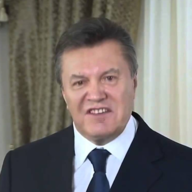
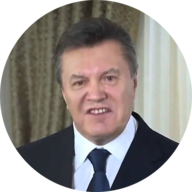
added thief-face.png with border radius 100%

diff --git a/index.html b/index.html
@@ -27,7 +27,7 @@
     <meta property="og:title" content="Остановитесь.рф">
     <meta property="og:type" content="website">
     <meta property="og:url" content="http://остановитесь.рф/">
-    <meta property="og:image" content="http://остановитесь.рф/thief-face.jpeg">
+    <meta property="og:image" content="http://остановитесь.рф/thief-face.png">
 
     <link rel="stylesheet" href="/app.css">
 </head>

diff --git a/app.js b/app.js
@@ -1,7 +1,7 @@
 new Vue({
     el: '#app',
     data: {
-        thiefFaceImg: '/thief-face.jpeg',
+        thiefFaceImg: '/thief-face.png',
         headerText: 'Остановитесь',
         myTelegramLink: 'https://t.me/imqbbr',
         soundPath: '/ostanovites.mp3',
